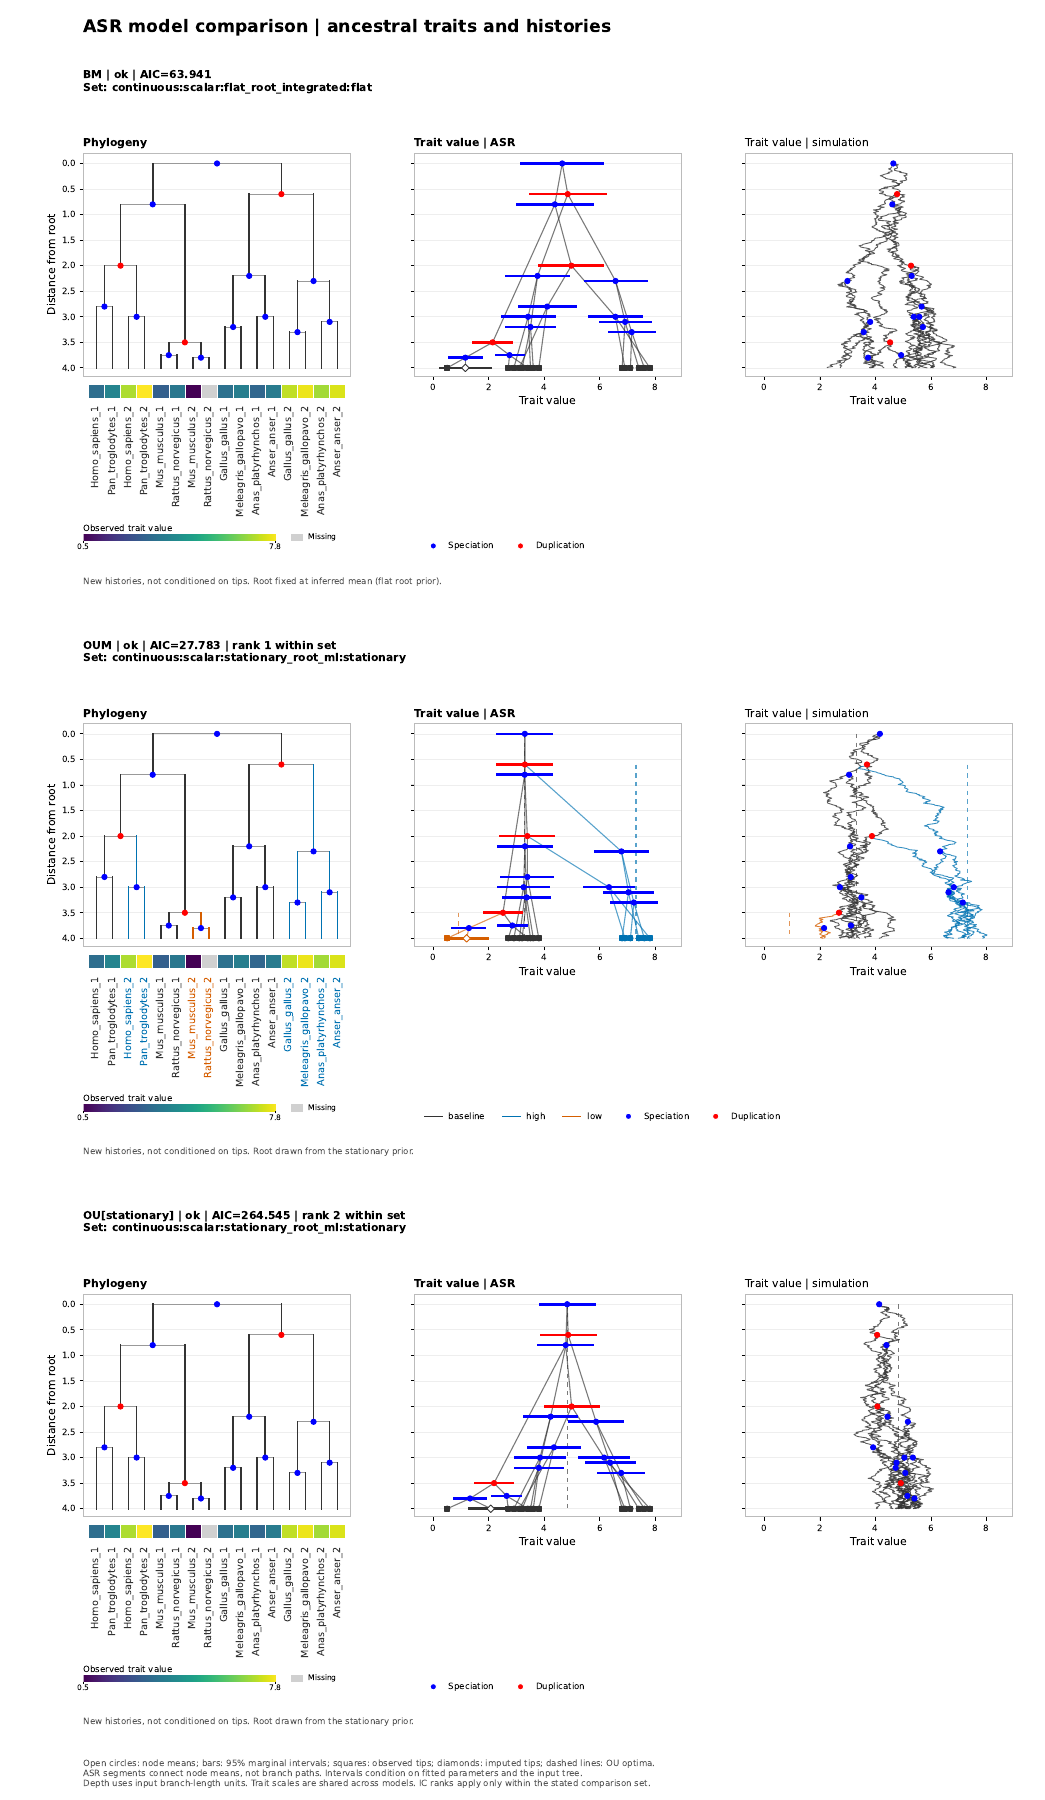
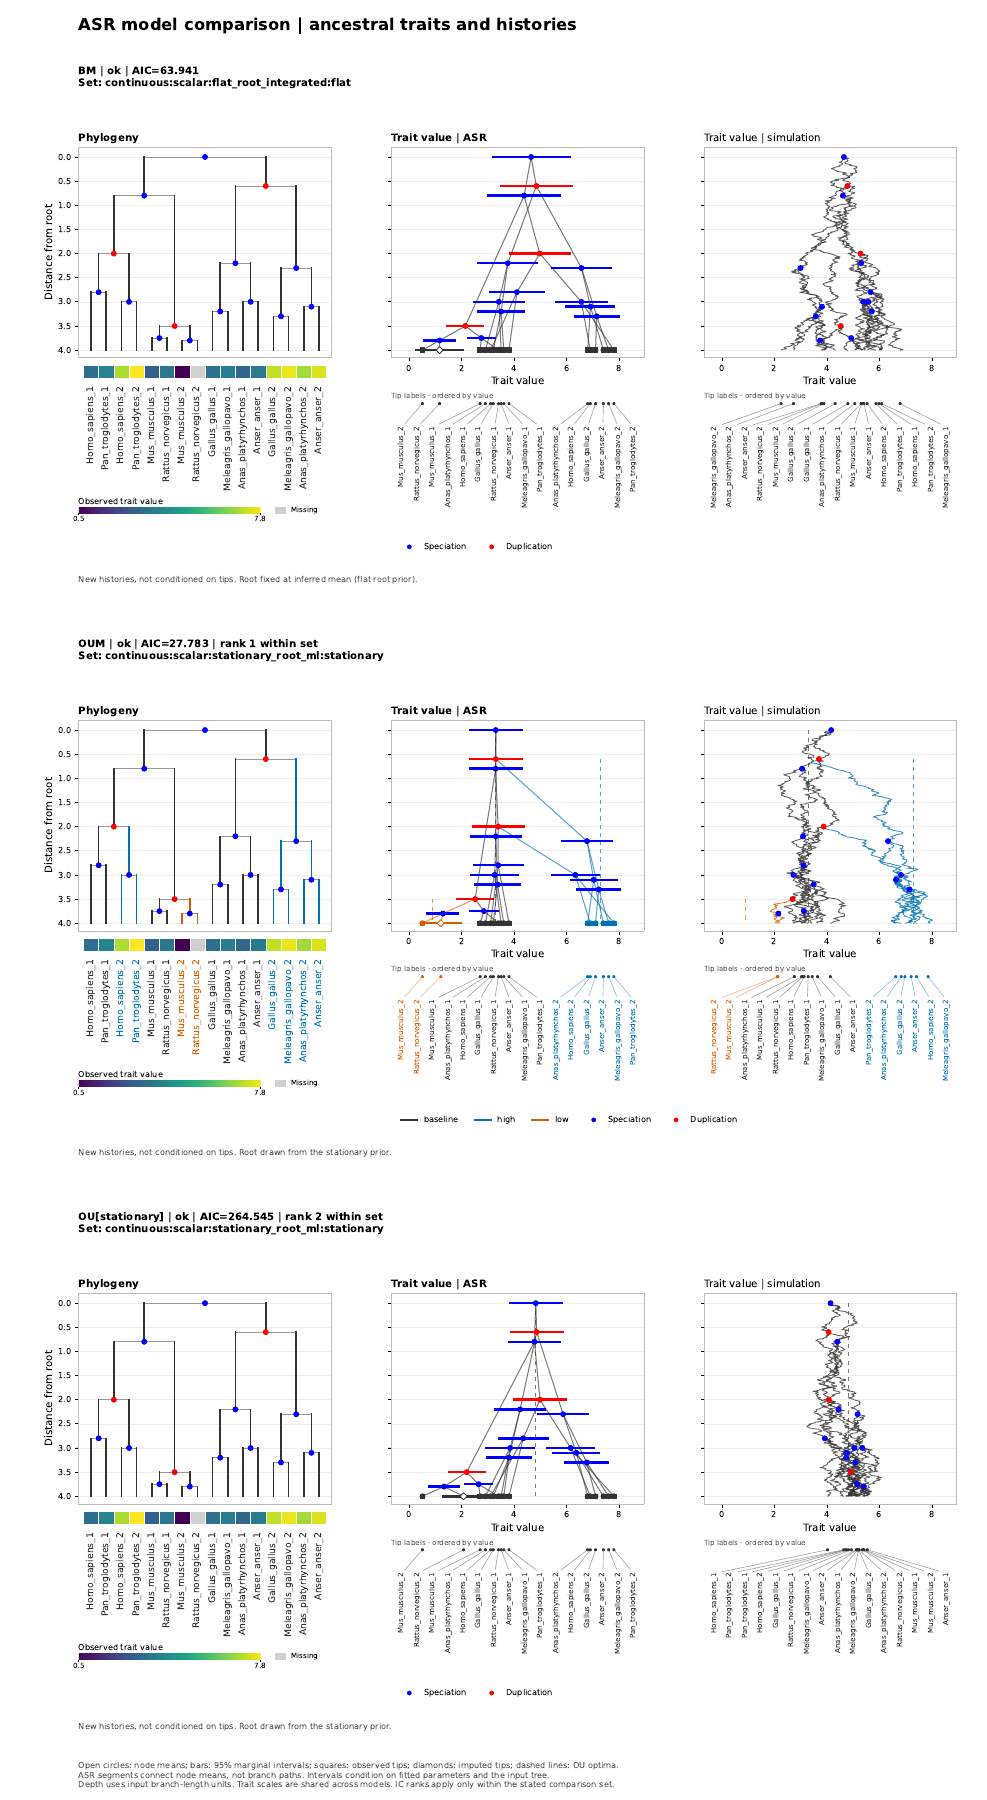
Add detached trait tip labels and equal panel widths; prepare 0.43.9

diff --git a/nwkit/asr_figure.py b/nwkit/asr_figure.py
@@ -34,6 +34,8 @@ def validate_figure_options(args):
 
     simulation_options(args)
     path = getattr(args, "figure_out", None)
+    if getattr(args, "figure_trait_tip_labels", "no") == "yes" and path in (None, ""):
+        raise ValueError("--figure-trait-tip-labels yes requires --figure-out.")
     if getattr(args, "figure_tip_heatmap", "no") == "yes" and path in (None, ""):
         raise ValueError("--figure-tip-heatmap yes requires --figure-out.")
     for name in ("figure_width", "figure_height"):
@@ -378,6 +380,7 @@ def build_continuous_asr_figure(
     simulation=None,
     node_types=None,
     tip_heatmap=False,
+    trait_tip_labels=False,
 ):
     """Build a headless Matplotlib Figure using a complete continuous summary table."""
     from matplotlib.figure import Figure
@@ -390,7 +393,7 @@ def build_continuous_asr_figure(
     traits = list(dict.fromkeys(table["trait"]))
     by_node, styles = _regime_styles(tree, regime_assignment)
     tree_width = max(3.4, len(tips) * 0.36)
-    overhang = _label_overhang(tips)
+    overhang = _label_overhang(tips) + (0.45 if trait_tip_labels else 0)
     extra_footer = 0.2 if simulation is not None else 0.0
     heatmap_space = heatmap_extra_space(len(traits)) if tip_heatmap else 0.0
     panels_per_trait = 2 if simulation is not None else 1
@@ -401,7 +404,6 @@ def build_continuous_asr_figure(
         1,
         1 + num_panels,
         sharey=True,
-        gridspec_kw={"width_ratios": [tree_width, *([3.8] * num_panels)]},
     )
     _draw_tree(
         axes[0],
@@ -416,6 +418,9 @@ def build_continuous_asr_figure(
     )
     if tip_heatmap:
         draw_tip_heatmap(axes[0], table, tips, positions, overhang + 0.65)
+    from nwkit.asr_tip_labels import draw_trait_tip_labels
+
+    tip_colors = {tip.name: styles[by_node[tip]][0] for tip in tips}
     has_theta = False
     for index, trait in enumerate(traits):
         rows = table[table.trait == trait].set_index("branch_id")
@@ -427,6 +432,12 @@ def build_continuous_asr_figure(
         has_theta = has_theta or bool(theta)
         ax = axes[1 + index * panels_per_trait]
         _draw_trait(ax, rows, nodes, depths, ids, by_node, styles, theta, node_types)
+        if trait_tip_labels:
+            draw_trait_tip_labels(
+                ax,
+                {tip.name: float(rows.loc[ids[tip], "mean"]) for tip in tips},
+                tip_colors,
+            )
         if simulation is not None:
             ax.set_title(f"{trait} | ASR", loc="left", fontweight="bold", pad=14)
             simulated_ax = axes[2 + index * panels_per_trait]
@@ -448,6 +459,20 @@ def build_continuous_asr_figure(
             )
             ax.set_xlim(limits)
             simulated_ax.set_xlim(limits)
+            if trait_tip_labels:
+                draw_trait_tip_labels(
+                    simulated_ax,
+                    {
+                        tip.name: float(
+                            simulation.root_values[0, index]
+                            if tip.is_root
+                            else simulation.branches[tip].values[0, -1, index]
+                        )
+                        for tip in tips
+                    },
+                    tip_colors,
+                    first_history=simulation.count > 1,
+                )
     extent = max(depths.values()) or 1.0
     axes[0].set_ylim(extent * 1.04, -extent * 0.05)
     for ax in axes:
@@ -601,6 +626,7 @@ def write_continuous_asr_figure(
         simulation=simulation,
         node_types=figure_node_types(tree, args),
         tip_heatmap=getattr(args, "figure_tip_heatmap", "no") == "yes",
+        trait_tip_labels=getattr(args, "figure_trait_tip_labels", "no") == "yes",
     )
     try:
         with output_transaction([args.figure_out]) as staged:

diff --git a/nwkit/asr_compare_panels.py b/nwkit/asr_compare_panels.py
@@ -39,6 +39,7 @@ def validate_panel_options(args, trait_type):
         if (
             getattr(args, "figure_simulations", 0)
             or getattr(args, "figure_tip_heatmap", "no") == "yes"
+            or getattr(args, "figure_trait_tip_labels", "no") == "yes"
             or any(getattr(args, key, None) is not None for key in settings)
         ):
             raise ValueError(
@@ -126,11 +127,21 @@ def _draw_model(context, row, cached, figure, slot, trait_axes):
     )
     if heatmap:
         draw_tip_heatmap(tree_ax, table, tips, positions, _label_overhang(tips) + 0.65)
+    from nwkit.asr_tip_labels import draw_trait_tip_labels
+
+    tip_labels = getattr(context.args, "figure_trait_tip_labels", "no") == "yes"
+    tip_colors = {tip.name: styles[by_node[tip]][0] for tip in tips}
     for index, trait in enumerate(context.trait_columns):
         rows = table[table.trait == trait].set_index("branch_id")
         theta = _theta_values(fit, index, styles)
         ax = figure.add_subplot(grid[1 + index * stride], sharey=tree_ax)
         _draw_trait(ax, rows, nodes, depths, ids, by_node, styles, theta, node_types)
+        if tip_labels:
+            draw_trait_tip_labels(
+                ax,
+                {tip.name: float(rows.loc[ids[tip], "mean"]) for tip in tips},
+                tip_colors,
+            )
         ax.set_title(f"{trait} | ASR", loc="left", fontsize=10, fontweight="bold")
         trait_axes[trait].append(ax)
         if include_simulation:
@@ -162,6 +173,20 @@ def _draw_model(context, row, cached, figure, slot, trait_axes):
                 )
                 sim_ax.set_title(sim_ax.get_title(loc="left"), loc="left", fontsize=10)
                 trait_axes[trait].append(sim_ax)
+                if tip_labels:
+                    draw_trait_tip_labels(
+                        sim_ax,
+                        {
+                            tip.name: float(
+                                simulation.root_values[0, index]
+                                if tip.is_root
+                                else simulation.branches[tip].values[0, -1, index]
+                            )
+                            for tip in tips
+                        },
+                        tip_colors,
+                        first_history=simulation.count > 1,
+                    )
     extent = max(depths.values()) or 1.0
     tree_ax.set_ylim(extent * 1.04, -extent * 0.05)
     tree_ax.set_title("Phylogeny", loc="left", fontsize=10, fontweight="bold")
@@ -207,6 +232,8 @@ def build_comparison_panels(context, table):
     overhang = _label_overhang(list(context.tree.leaves()))
     if getattr(context.args, "figure_tip_heatmap", "no") == "yes":
         overhang += heatmap_extra_space(len(context.trait_columns))
+    if getattr(context.args, "figure_trait_tip_labels", "no") == "yes":
+        overhang += 0.45
     heights = [
         5.3 + overhang
         if row["model_id"] in fits

diff --git a/nwkit/asr_tip_labels.py b/nwkit/asr_tip_labels.py
@@ -1,0 +1,61 @@
+"""Detached, value-ordered tip labels for continuous trait panels."""
+
+import numpy as np
+
+from nwkit.asr_heatmap import _below_axis
+
+
+def draw_trait_tip_labels(parent, values, colors, *, first_history=False):
+    """Fan endpoints into evenly spaced labels without covering the data panel.
+
+    The top of the detached strip repeats tip values on the parent's x scale.
+    Sorting by value keeps the fan connectors from crossing. Full names are
+    retained, so abbreviations cannot make two distinct tips ambiguous.
+    """
+    names = sorted(values, key=lambda name: (values[name], name))
+    band = _below_axis(parent, 0.62, 0.32)
+    band.set_label("trait-tip-labels")
+    band.set_axis_off()
+    band.set_ylim(0, 1)
+    band.set_xlim(parent.get_xlim())
+
+    def sync_limits(ax):
+        band.set_xlim(ax.get_xlim())
+
+    parent.callbacks.connect("xlim_changed", sync_limits)
+    for name, slot in zip(names, np.linspace(0.04, 0.96, len(names)), strict=True):
+        color = colors[name]
+        band.annotate(
+            name,
+            xy=(values[name], 1),
+            xycoords="data",
+            xytext=(slot, 0),
+            textcoords="axes fraction",
+            rotation=90,
+            ha="center",
+            va="top",
+            fontsize=7,
+            color=color,
+            annotation_clip=False,
+            arrowprops={
+                "arrowstyle": "-",
+                "color": color,
+                "alpha": 0.45,
+                "linewidth": 0.6,
+                "shrinkA": 2,
+                "shrinkB": 0,
+                "relpos": (0.5, 1),
+            },
+        ).set_gid(f"trait-tip-label:{name}")
+        band.plot(values[name], 1, "o", color=color, markersize=2, clip_on=False)
+    band.text(
+        0,
+        1.2,
+        "Tip labels (first history)"
+        if first_history
+        else "Tip labels · ordered by value",
+        transform=band.transAxes,
+        fontsize=7,
+        color="#666666",
+    )
+    return band

diff --git a/tests/test_asr_compare_panels.py b/tests/test_asr_compare_panels.py
@@ -34,7 +34,8 @@ def command(tmp_path, *extra):
     ]
 
 
-def test_one_page_same_fit_values_and_shared_axes(tmp_path, monkeypatch):
+@pytest.mark.parametrize("tip_labels", ["no", "yes"])
+def test_one_page_same_fit_values_and_shared_axes(tmp_path, monkeypatch, tip_labels):
     import nwkit.asr_compare as comparison
     import nwkit.asr_compare_panels as plotting
 
@@ -56,6 +57,20 @@ def test_one_page_same_fit_values_and_shared_axes(tmp_path, monkeypatch):
         trait_plots = [ax for ax in plots if ax.get_xlabel() == "x"]
         assert len(trait_plots) == 4
         assert len({ax.get_xlim() for ax in trait_plots}) == 1
+        if tip_labels == "yes":
+            for ax in trait_plots:
+                band = next(
+                    child
+                    for child in ax.child_axes
+                    if child.get_label() == "trait-tip-labels"
+                )
+                assert band.get_xlim() == ax.get_xlim()
+                labels = [text for text in band.texts if text.get_gid()]
+                assert {text.get_text() for text in labels} == set("ABCDEF")
+                if "simulation" in ax.get_title(loc="left"):
+                    assert any(
+                        "first history" in text.get_text() for text in band.texts
+                    )
         # Cached marginals, rather than a second fit, supply every node.
         for posterior, _, _, _ in context.cache["figure_fits"].values():
             assert len(posterior) == len(list(context.tree.traverse()))
@@ -73,6 +88,8 @@ def test_one_page_same_fit_values_and_shared_axes(tmp_path, monkeypatch):
             str(pdf),
             "--figure-simulations",
             "2",
+            "--figure-trait-tip-labels",
+            tip_labels,
             "--figure-simulation-steps",
             "4",
             "--seed",

diff --git a/tests/test_asr_figure.py b/tests/test_asr_figure.py
@@ -399,3 +399,24 @@ def test_example_is_binary_and_regimes_match_renamed_trait_tips():
         if event == "duplication":
             assert types[node.up] == "speciation"
             assert all(types[child] == "speciation" for child in node.children)
+
+
+def test_trait_tip_labels_keep_values_and_follow_shared_limits():
+    tree = Tree("((A:1,B:2):0,C:1):90;")
+    table, fit = summary(tree)
+    figure = build_continuous_asr_figure(
+        tree, table, model="BM", fit=fit, trait_tip_labels=True
+    )
+    axis = figure.axes[1]
+    band = next(
+        child for child in axis.child_axes if child.get_label() == "trait-tip-labels"
+    )
+    labels = [text for text in band.texts if text.get_gid()]
+    rows = table[table.node_class == "leaf"].set_index("name")
+    assert {text.get_text() for text in labels} == set(tree.leaf_names())
+    for text in labels:
+        assert text.xy == (rows.loc[text.get_text(), "mean"], 1)
+    assert [text.xy[0] for text in labels] == sorted(text.xy[0] for text in labels)
+    axis.set_xlim(-10, 20)
+    assert band.get_xlim() == axis.get_xlim()
+    assert len({round(ax.get_position().width, 8) for ax in figure.axes}) == 1

diff --git a/nwkit/cli.py b/nwkit/cli.py
@@ -1200,6 +1200,13 @@ pasr.add_argument(
     help="Optional PDF, SVG, or PNG showing continuous ancestral traits beside the tree. Includes all nodes regardless of --target.",
 )
 pasr.add_argument(
+    "--figure-trait-tip-labels",
+    "--figure_trait_tip_labels",
+    choices=("yes", "no"),
+    default="no",
+    help="default=no: Add full tip names in detached value-ordered strips below ASR and simulation panels. Labels use posterior tip means or the first sampled history. Requires --figure-out; asrcompare requires --figure-layout panels.",
+)
+pasr.add_argument(
     "--figure-tip-heatmap",
     "--figure_tip_heatmap",
     choices=("yes", "no"),
@@ -1341,6 +1348,7 @@ _copy_store_options(
         "figure_simulation_mode",
         "figure_simulation_steps",
         "figure_tip_heatmap",
+        "figure_trait_tip_labels",
         "species_overlap_node_plot",
         "seed",
     ),

diff --git a/nwkit/__init__.py b/nwkit/__init__.py
@@ -1,1 +1,1 @@
-__version__ = "0.43.8"
+__version__ = "0.43.9"

diff --git a/examples/asr_figure/README.md b/examples/asr_figure/README.md
@@ -12,7 +12,7 @@ From the repository root:
 nwkit asr \
   -i examples/asr_figure/tree.nwk \
   --trait examples/asr_figure/traits.tsv \
-  --state-column "Trait value" --figure-tip-heatmap yes \
+  --state-column "Trait value" --figure-tip-heatmap yes --figure-trait-tip-labels yes \
   --model OUM \
   --regime-map examples/asr_figure/regimes.tsv \
   --regime-parameters examples/asr_figure/parameters.tsv \
@@ -73,7 +73,7 @@ This command generates the additional simulation panel shown below:
 nwkit asr \
   -i examples/asr_figure/tree.nwk \
   --trait examples/asr_figure/traits.tsv \
-  --state-column "Trait value" --figure-tip-heatmap yes \
+  --state-column "Trait value" --figure-tip-heatmap yes --figure-trait-tip-labels yes \
   --model OUM \
   --regime-map examples/asr_figure/regimes.tsv \
   --regime-parameters examples/asr_figure/parameters.tsv \
@@ -102,7 +102,7 @@ values and tree. They do not add parameter or tree uncertainty.
 ```sh
 nwkit asrcompare \
   -i examples/asr_figure/tree.nwk \
-  --trait examples/asr_figure/traits.tsv --state-column "Trait value" --figure-tip-heatmap yes \
+  --trait examples/asr_figure/traits.tsv --state-column "Trait value" --figure-tip-heatmap yes --figure-trait-tip-labels yes \
   --models BM,OU,OUM \
   --regime-map examples/asr_figure/regimes.tsv \
   --regime-parameters examples/asr_figure/parameters.tsv \
@@ -125,4 +125,16 @@ The heatmap below each phylogeny displays the observed values in tip order,
 using the same 0.5-7.8 scale in every model. `Rattus_norvegicus_2` is gray because
 its observation is missing; its ASR-imputed value is shown only in the ASR panel.
 The numeric color key is below the vertical tip names. Omit
-`--figure-tip-heatmap yes` to use the original layout without the heatmap.
+`--figure-tip-heatmap yes` to hide the heatmap; omit
+`--figure-trait-tip-labels yes` to hide the trait-panel label strips.
+
+## Optional labels under trait panels
+
+The commands above enable `--figure-trait-tip-labels yes` to show full tip
+names under the ASR and simulation panels. The detached strips repeat the tip
+values on the same x scale and fan out to evenly spaced, value-ordered names.
+ASR uses posterior tip means (including imputed tips); simulation uses endpoints
+of the first sampled history, identified explicitly when several are drawn.
+Regime colors match the corresponding branches. These labels are off by default.
+
+![Trait panels with detached tip labels](simulation-labelled.png)

diff --git a/ASR.md b/ASR.md
@@ -1445,3 +1445,14 @@ It is an importance sample, not equally weighted posterior histories. Figures,
 Gaussian diagnostics, replicate reduction and tree ensembles are currently
 rejected for these models. `asrcompare` marks them inapplicable: approximate,
 fixed-parameter latent fits are not silently ranked as ordinary ML fits.
+
+### Tip labels beneath continuous trait panels
+
+`asr --figure-trait-tip-labels yes` and
+`asrcompare --figure-layout panels --figure-trait-tip-labels yes` add optional
+full tip names in detached strips below ASR and simulation panels. `--figure-out`
+is required. Values repeat on the main panel's x scale; thin connectors lead to
+evenly spaced names sorted by value. ASR labels use posterior tip means,
+including imputed tips. Simulation labels use the first sampled history's tip
+endpoints, explicitly identified when several histories are drawn. Labels are
+off by default. The input names and numerical outputs are unchanged.

diff --git a/CLI_TSV_CONVENTIONS.md b/CLI_TSV_CONVENTIONS.md
@@ -473,3 +473,14 @@ parser meaning. It writes one tree/document, never a directory or implicit
 sidecars. See [CONVERT.md](CONVERT.md) for annotation, scaling, ambiguity and
 loss contracts. `validate --require-all-lengths yes` adds the issue
 `missing_branch_length` for absent non-root lengths without changing TSV columns.
+
+### Tip labels beneath continuous trait panels
+
+`asr --figure-trait-tip-labels yes` and
+`asrcompare --figure-layout panels --figure-trait-tip-labels yes` add optional
+full tip names in detached strips below ASR and simulation panels. `--figure-out`
+is required. Values repeat on the main panel's x scale; thin connectors lead to
+evenly spaced names sorted by value. ASR labels use posterior tip means,
+including imputed tips. Simulation labels use the first sampled history's tip
+endpoints, explicitly identified when several histories are drawn. Labels are
+off by default. The input names and numerical outputs are unchanged.

diff --git a/CHANGELOG.md b/CHANGELOG.md
@@ -4,6 +4,18 @@ All notable changes made after the `v0.21.1` tagged release are tracked here.
 
 ## [Unreleased]
 
+## [0.43.9] - 2026-09-08
+
+### Added
+
+- Add optional, value-ordered full tip labels below ASR and simulation panels,
+  with thin connectors, shared value scales and explicit first-history labeling.
+
+### Changed
+
+- Give phylogeny, ASR and simulation plots equal widths and include labeled
+  examples in the figure guide.
+
 ## [0.43.8] - 2026-09-08
 
 ### Added
